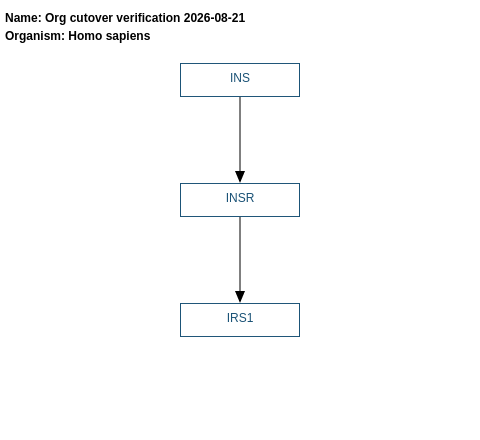
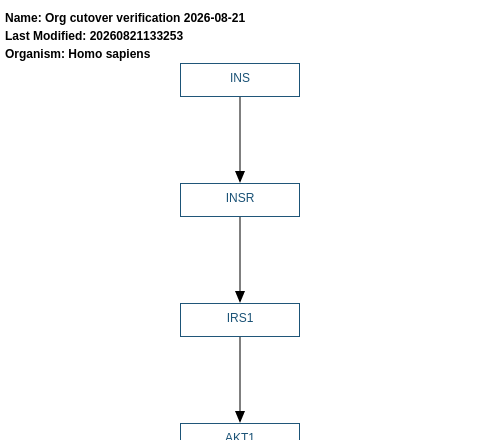
Add files for approved pathway WP5425

diff --git a/pathways/WP5425/WP5425.md b/pathways/WP5425/WP5425.md
@@ -14,8 +14,8 @@ organisms:
 redirect_from:
 - /index.php/Pathway:WP5425
 - /instance/WP5425
-- /instance/WP5425_r20260821133253
-revision: r20260821133253
+- /instance/WP5425_r20260821151230
+revision: r20260821151230
 schema-jsonld:
 - '@context': https://schema.org/
   '@id': https://wikipathways.github.io/pathways/WP5425.html
@@ -27,6 +27,7 @@ schema-jsonld:
     sandbox repository. Insulin binds and activates the insulin receptor, which phosphorylates
     IRS1 and propagates the signal downstream.
   keywords:
+  - AKT1
   - INS
   - INSR
   - IRS1
